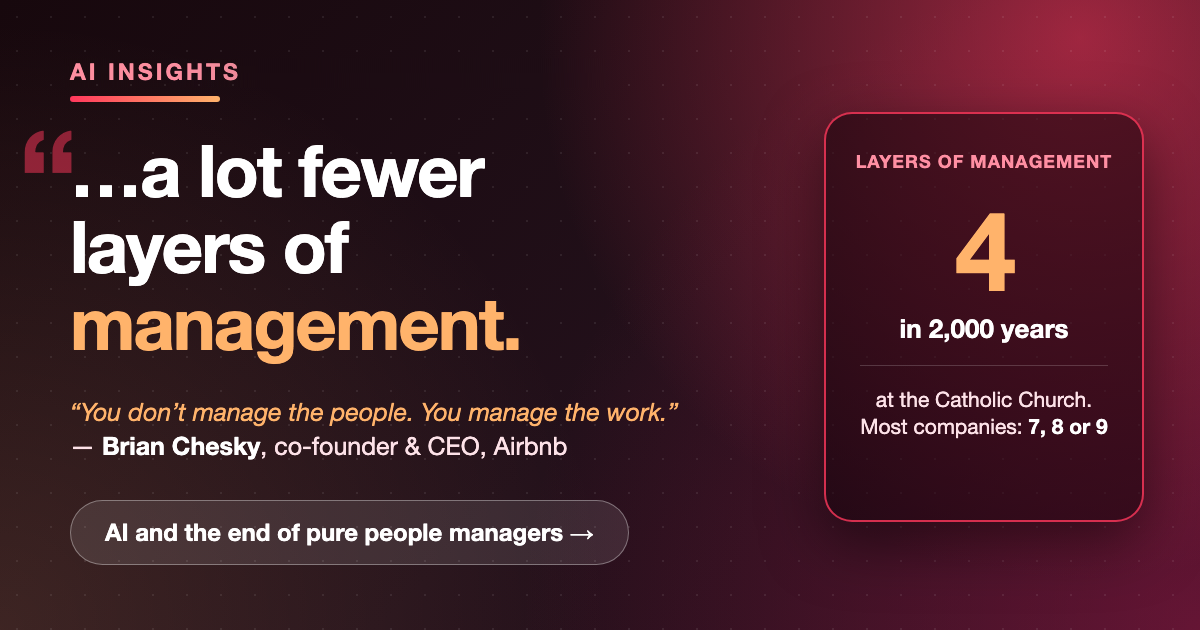
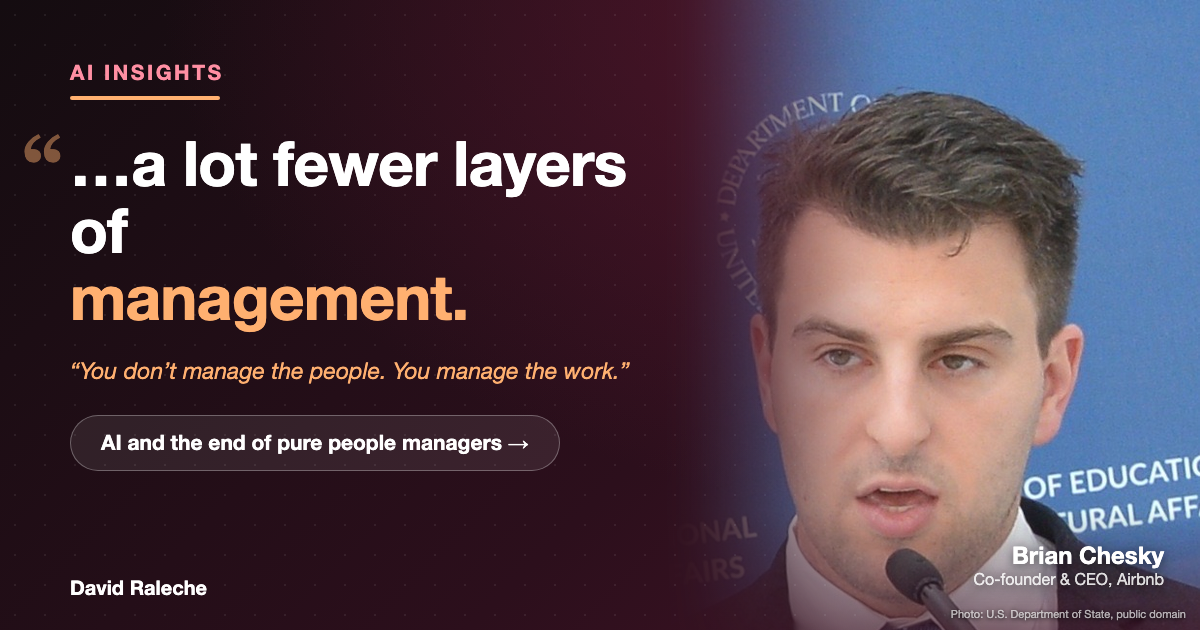
Story covers with the speaker's photo: 14 covers now show the speaker's face (freely licensed Wikimedia Commons photos, credited on each cover and in docs/cover-photo-credits.md)

diff --git a/docs/cover-photo-credits.md b/docs/cover-photo-credits.md
@@ -1,0 +1,20 @@
+# Cover photo credits
+
+Speaker photos on story covers come from Wikimedia Commons. Each cover shows the credit in its bottom-right corner.
+
+| Cover | Person | Commons file | Photographer | Licence |
+|---|---|---|---|---|
+| alexandr-wang-200-direct-reports-cover.png | Mark Zuckerberg | Mark Zuckerberg 2019 (cropped).jpg | Anthony Quintano | CC BY 2.0 |
+| alex-karp-palantir-cover-v2.png | Alex Karp | Alex Karp attends AI Summit (53302457013) 4-5 ratio.jpg | UK Government | CC BY 2.0 |
+| alex-karp-isaacson-ai-wealth-gap-cover.png | Alex Karp | Alex Karp attends AI Summit (53302457013) 4-5 ratio.jpg | UK Government | CC BY 2.0 |
+| andy-jassy-ai-era.png | Andy Jassy | Andy Jassy in 2010 (cropped).jpg | JD Lasica | CC BY 2.0 |
+| bill-gates-ai-risks-cover.png | Bill Gates | Bill Gates at the European Commission - 2025 - P067383-987995 (cropped).jpg | Bogdan Hoyaux / European Union | CC BY 4.0 |
+| brian-chesky-airbnb-cover-v2.png | Brian Chesky | Brian Chesky, 2016 (cropped).jpg | U.S. Department of State from United States | Public domain |
+| guillermo-rauch-vercel-agents-cover.png | Guillermo Rauch | Guillermo Rauch photo.jpg | Oynickj | CC BY-SA 4.0 |
+| nik-storonsky-revolut-cover.png | Nik Storonsky | 2022 - Centre Stage HM3 3918 (52472532046) (cropped).jpg | Web Summit | CC BY 2.0 |
+| nikesh-arora-palo-alto-cover.png | Nikesh Arora | Nikesh Arora(cropped).jpg | Nikesh_Arora.jpg: Loic Le Meur derivative work: Boseritwik | CC BY 2.0 |
+| paul-graham-great-founders-cover.png | Paul Graham | Paul Graham TechCrunch Disrupt New York May 2011.jpg | TechCrunch | CC BY 2.0 |
+| sam-altman-rsi-consciousness-cover.png | Sam Altman | Sam Altman speaking at TED (cropped).jpg | Steve Jurvetson | CC BY 2.0 |
+| tobi-lutke-shopify-ai-cover.png | Tobi Lütke | Tobias Lütke, Shopify.jpg | Union Eleven | CC BY-SA 3.0 |
+| yc-seven-powers-ai-moats-cover.png | Garry Tan | Garry Tan, Web Summit 2018, November 6 SD5 6949 (45700698642)(tighter 4x3 crop).jpg | Web Summit | CC BY 2.0 |
+| yossi-matias-google-research-thinker-cover.png | Yossi Matias | Yossi Matias (4108387033).jpg | simone.brunozzi | CC BY-SA 2.0 |
